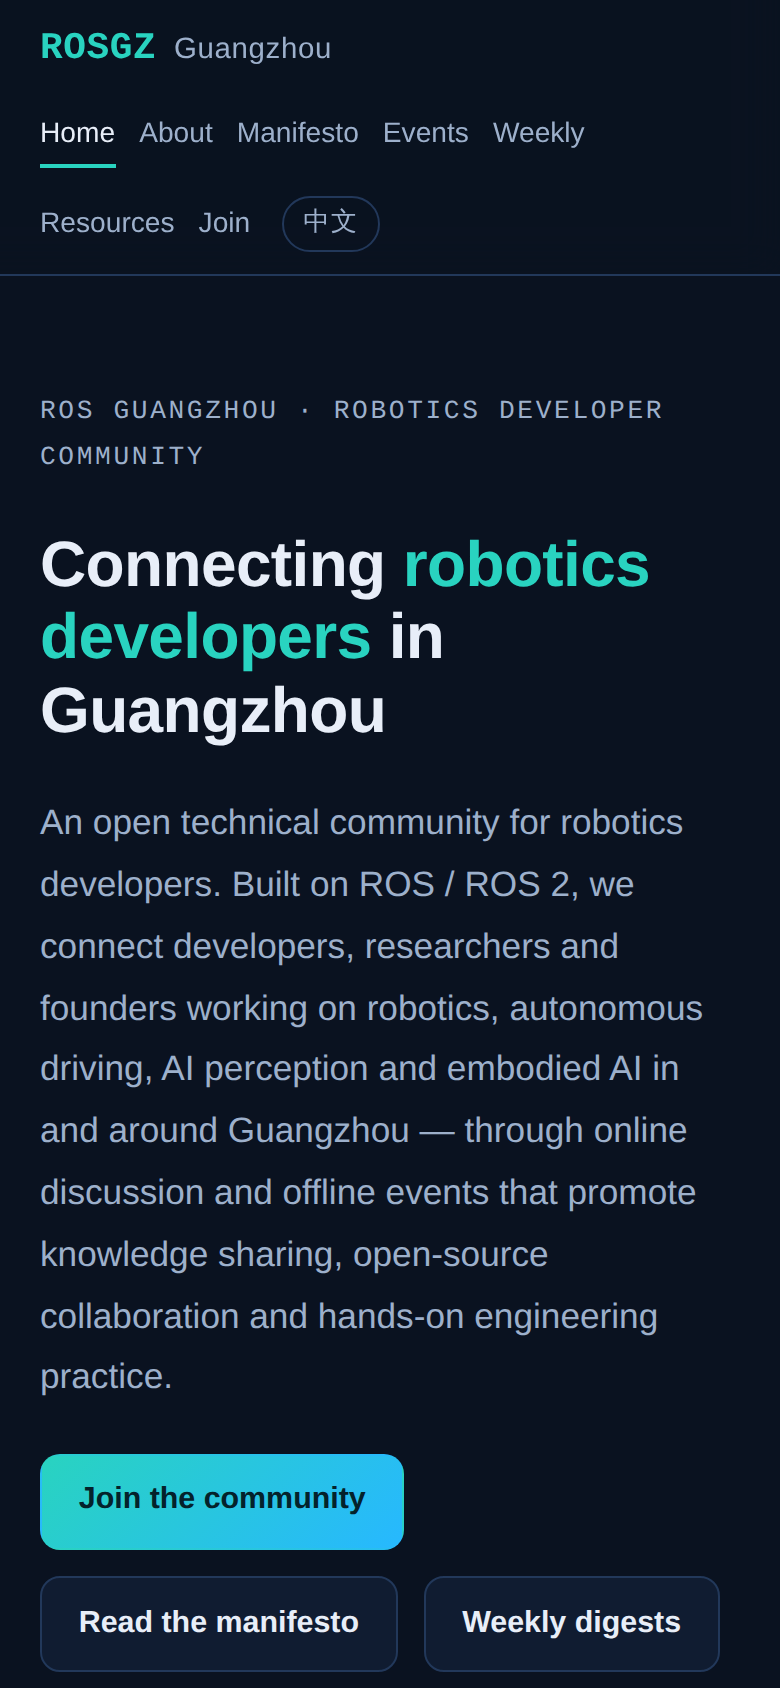
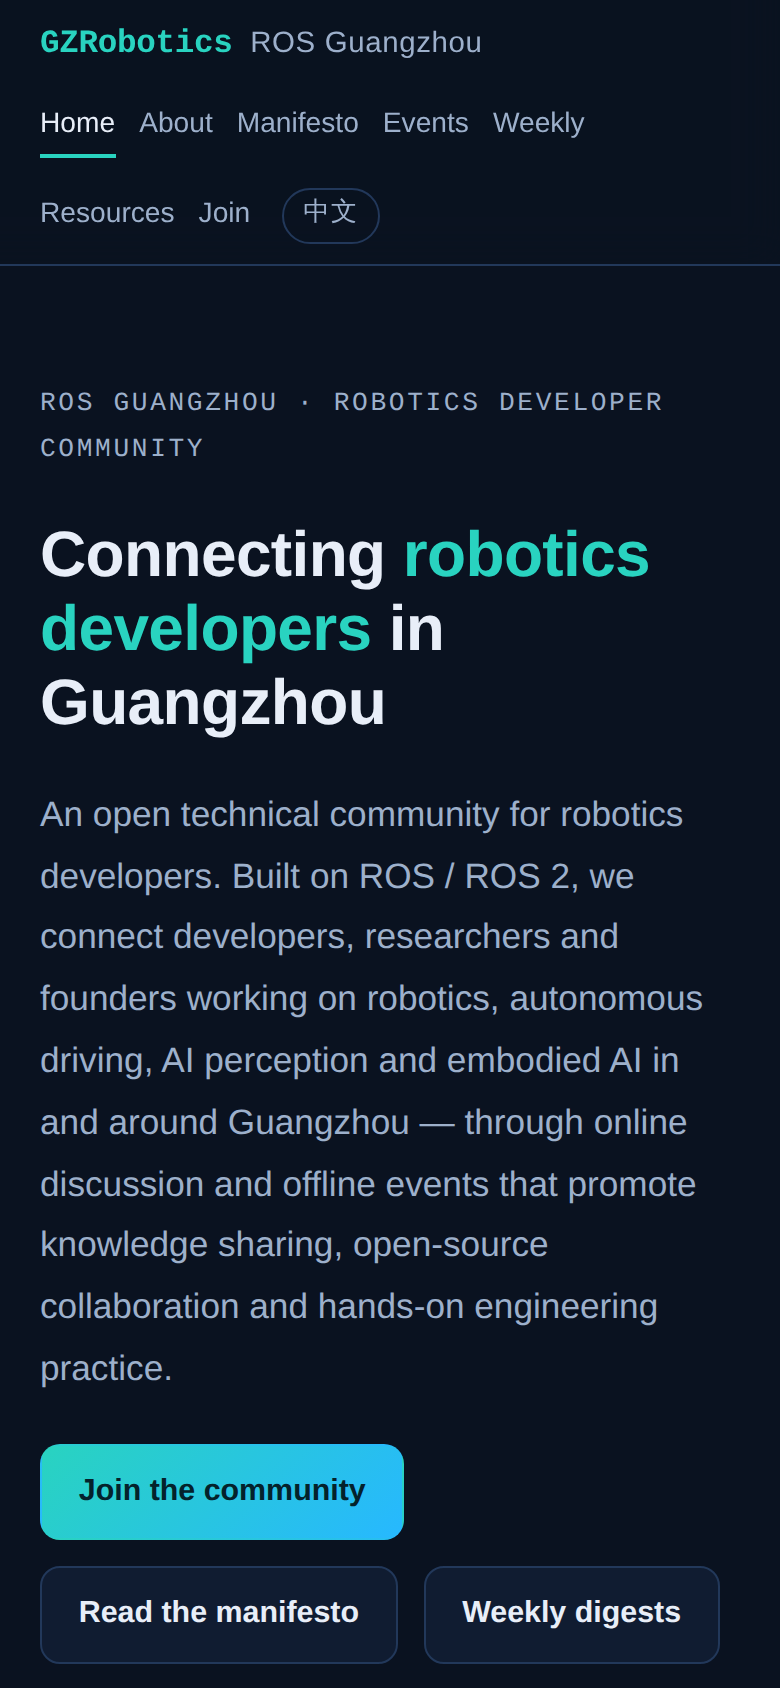
feat(brand,domain): 品牌双写 GZRobotics · ROS 广州，仓库改名 gzrobotics，切换自定义域部署
- 仓库 loonglee2025/rosgz → gzrobotics（base 路径改 /gzrobotics，本地 remote 已更新）
- 品牌双写：主品牌 GZRobotics，副标 ROS 广州 / ROS Guangzhou（Header/Footer/title/og）
- 免责声明与版权行同步；品牌字号适配变长标识
- deploy-pages 改为根路径构建 + 写入 dist/CNAME=gzrobotics.org（正式站方案 B）
- DEPLOY.md 重写第 0 节：NameCheap 记录清单（删停放 A/URL Redirect，加 4×A + www CNAME）、过渡期与验证命令
- 17 页构建通过，canonical/hreflang 指向 gzrobotics.org，无子路径前缀

diff --git a/src/lib/url.ts b/src/lib/url.ts
@@ -1,6 +1,6 @@
 // 统一处理部署基路径：
 // - 正式站（gzrobotics.org）→ base = '/'，内部链接为 /about
-// - GitHub Pages 项目页 → base = '/rosgz'，内部链接为 /rosgz/about
+// - GitHub Pages 项目页 → base = '/gzrobotics'，内部链接为 /gzrobotics/about
 // 页面里一律用 url('/about') 生成 href，避免硬编码绝对路径在子路径部署下 404。
 const rawBase = (import.meta.env.BASE_URL || '/').replace(/\/+$/, '');
 

diff --git a/src/lib/i18n.ts b/src/lib/i18n.ts
@@ -6,7 +6,7 @@ export type Lang = 'zh' | 'en';
 
 export const locales: Lang[] = ['zh', 'en'];
 
-/** 去掉部署基路径后的路径，例如 /rosgz/en/about → /en/about */
+/** 去掉部署基路径后的路径，例如 /gzrobotics/en/about → /en/about */
 export function stripBase(fullPathname: string): string {
   const noSlash = fullPathname.replace(/\/+$/, '') || '/';
   if (basePath && noSlash.startsWith(basePath)) {

diff --git a/src/styles/global.css b/src/styles/global.css
@@ -105,7 +105,9 @@ img {
 .brand .mark {
   color: var(--accent);
   font-family: var(--mono);
-  font-size: 1.18rem;
+  font-size: 1.02rem;
+  letter-spacing: -0.01em;
+  font-weight: 700;
 }
 
 .brand .zh {

diff --git a/docs/DEPLOY.md b/docs/DEPLOY.md
@@ -1,4 +1,4 @@
-# 部署与域名绑定手册（ROSGZ）
+# 部署与域名绑定手册（GZRobotics）
 
 目标域名：`gzrobotics.org`（主域，2026-10-28 注册于 NameCheap）+ `www.gzrobotics.org`（301 到主域）。
 
@@ -11,29 +11,62 @@
 
 ## 0. 前置条件
 
-- [x] GitHub 仓库已创建：`loonglee2025/rosgz`（2026-10-28；日后可 Transfer 到组织 `rosgz`）
-- [ ] 一个 Cloudflare 账号（免费计划即可）
-- [ ] 一个域名注册商账号（见下）
+- [x] GitHub 仓库：`loonglee2025/gzrobotics`（2026-10-28 由 `rosgz` 改名；日后可 Transfer 到组织 `gzrobotics`）
+- [ ] 域名注册商账号：NameCheap（`gzrobotics.org` 已注册，需在 Advanced DNS 中配置记录）
 
-## 0. GitHub Pages 预览站（已启用，无需等待域名）
+## 0. 绑定自定义域（方案 B：GitHub Pages + gzrobotics.org）
 
-用于在域名注册前先让社群成员在手机上看到成品。
+已于 2026-10-28 确定：正式站走 **GitHub Pages + 自定义域**（用户决策），不走 Cloudflare Pages（第 1–4 节保留为日后迁移备选）。
 
-- 地址：`https://loonglee2025.github.io/rosgz/`
-- 工作流：`.github/workflows/deploy-pages.yml`（push 到 `main` 自动构建部署，`workflow_dispatch` 可手动触发）
-- Pages 源已由 API 设为 **GitHub Actions**（`build_type: workflow`），无需在网页端再选分支
-- 构建参数：`DEPLOY_TARGET=gh-pages` → `base=/rosgz`，内部链接自动加前缀（`src/lib/url.ts`）
-- SEO 处理：预览站带 `<meta name="robots" content="noindex, nofollow">`，canonical 仍指向 `https://gzrobotics.org`，
-  避免被搜索引擎与正式站判为重复内容
-- 已知限制：GitHub Pages 在中国大陆访问不稳定（时延/丢包随网络变化），**仅作预览**；
-  正式发布仍按下方 Cloudflare Pages + 自定义域执行，届时可把本工作流降级为可选或删除
+现状（2026-10-28 实测）：域名已注册（NameCheap，到期 2027-10-28），但 DNS 仍指向 NameCheap 停放页
+（NS `dns1/dns2.registrar-servers.com`，A `162.255.119.77`，`www` → `parkingpage.namecheap.com`）。
 
-验证方式（我可随时执行）：
+### 0.1 需要在 NameCheap 上做的事（你操作）
+
+1. 登录 NameCheap → Domain List → `gzrobotics.org` → **Advanced DNS**。
+2. **删除**默认记录：
+   - `A Record @ 162.255.119.77`（停放解析）
+   - `URL Redirect Record`（若有）
+   - `CNAME www → parkingpage.namecheap.com`
+3. **新增**以下记录：
+
+| Type | Host | Value | TTL |
+|---|---|---|---|
+| A | `@` | `185.199.108.153` | Automatic |
+| A | `@` | `185.199.109.153` | Automatic |
+| A | `@` | `185.199.110.153` | Automatic |
+| A | `@` | `185.199.111.153` | Automatic |
+| CNAME | `www` | `loonglee2025.github.io` | Automatic |
+
+> 上述 4 个 IPv4 为 GitHub Pages 官方公布的 apex 地址；若官方文档有变更，以 GitHub 文档为准。
+> 可选：再加 4 条 AAAA（`2606:50c0:8000::153` … `:8003::153`）以支持 IPv6。
+
+### 0.2 仓库侧（我执行）
+
+- 工作流 `.github/workflows/deploy-pages.yml` 已改为**根路径构建 + 写入 `dist/CNAME`**（内容 `gzrobotics.org`）
+- Pages 源为 **GitHub Actions**（`build_type: workflow`）
+- 设置 Custom domain：`gzrobotics.org`，并开启 **Enforce HTTPS**
+- 证书由 GitHub 自动签发（Let's Encrypt），DNS 生效后通常数分钟到数小时完成
+
+### 0.3 过渡期说明
+
+绑定自定义域后，`https://loonglee2025.github.io/gzrobotics/` 会 301 到 `https://gzrobotics.org/`。
+DNS 尚未生效期间，两个地址都可能打不开 —— 属正常过渡状态，DNS 生效即恢复。
+
+### 0.4 验证（我可执行）
 
 ```bash
-curl -s -o /dev/null -w "%{http_code}\n" https://loonglee2025.github.io/rosgz/
-curl -s -o /dev/null -w "%{http_code}\n" https://loonglee2025.github.io/rosgz/about/
+dig +short A gzrobotics.org          # 期望 4 个 185.199.10x.153
+dig +short CNAME www.gzrobotics.org  # 期望 loonglee2025.github.io.
+curl -sI https://gzrobotics.org/     # 期望 200 + server: GitHub.com
+curl -sI https://www.gzrobotics.org/ # 期望 301 → https://gzrobotics.org/
+curl -s https://gzrobotics.org/ | grep -o '<link rel="canonical"[^>]*>'
 ```
+
+### 0.5 已知限制
+
+- GitHub Pages 在中国大陆访问不稳定（时延/丢包随网络变化）。若社群反馈明显，再按第 6 节评估迁移 Cloudflare 或香港节点；
+  代码侧无需改动：`DEPLOY_TARGET` 不设即根路径构建，Cloudflare Pages 直接复用同一产物。
 
 ## 1. 注册域名（你操作）
 
